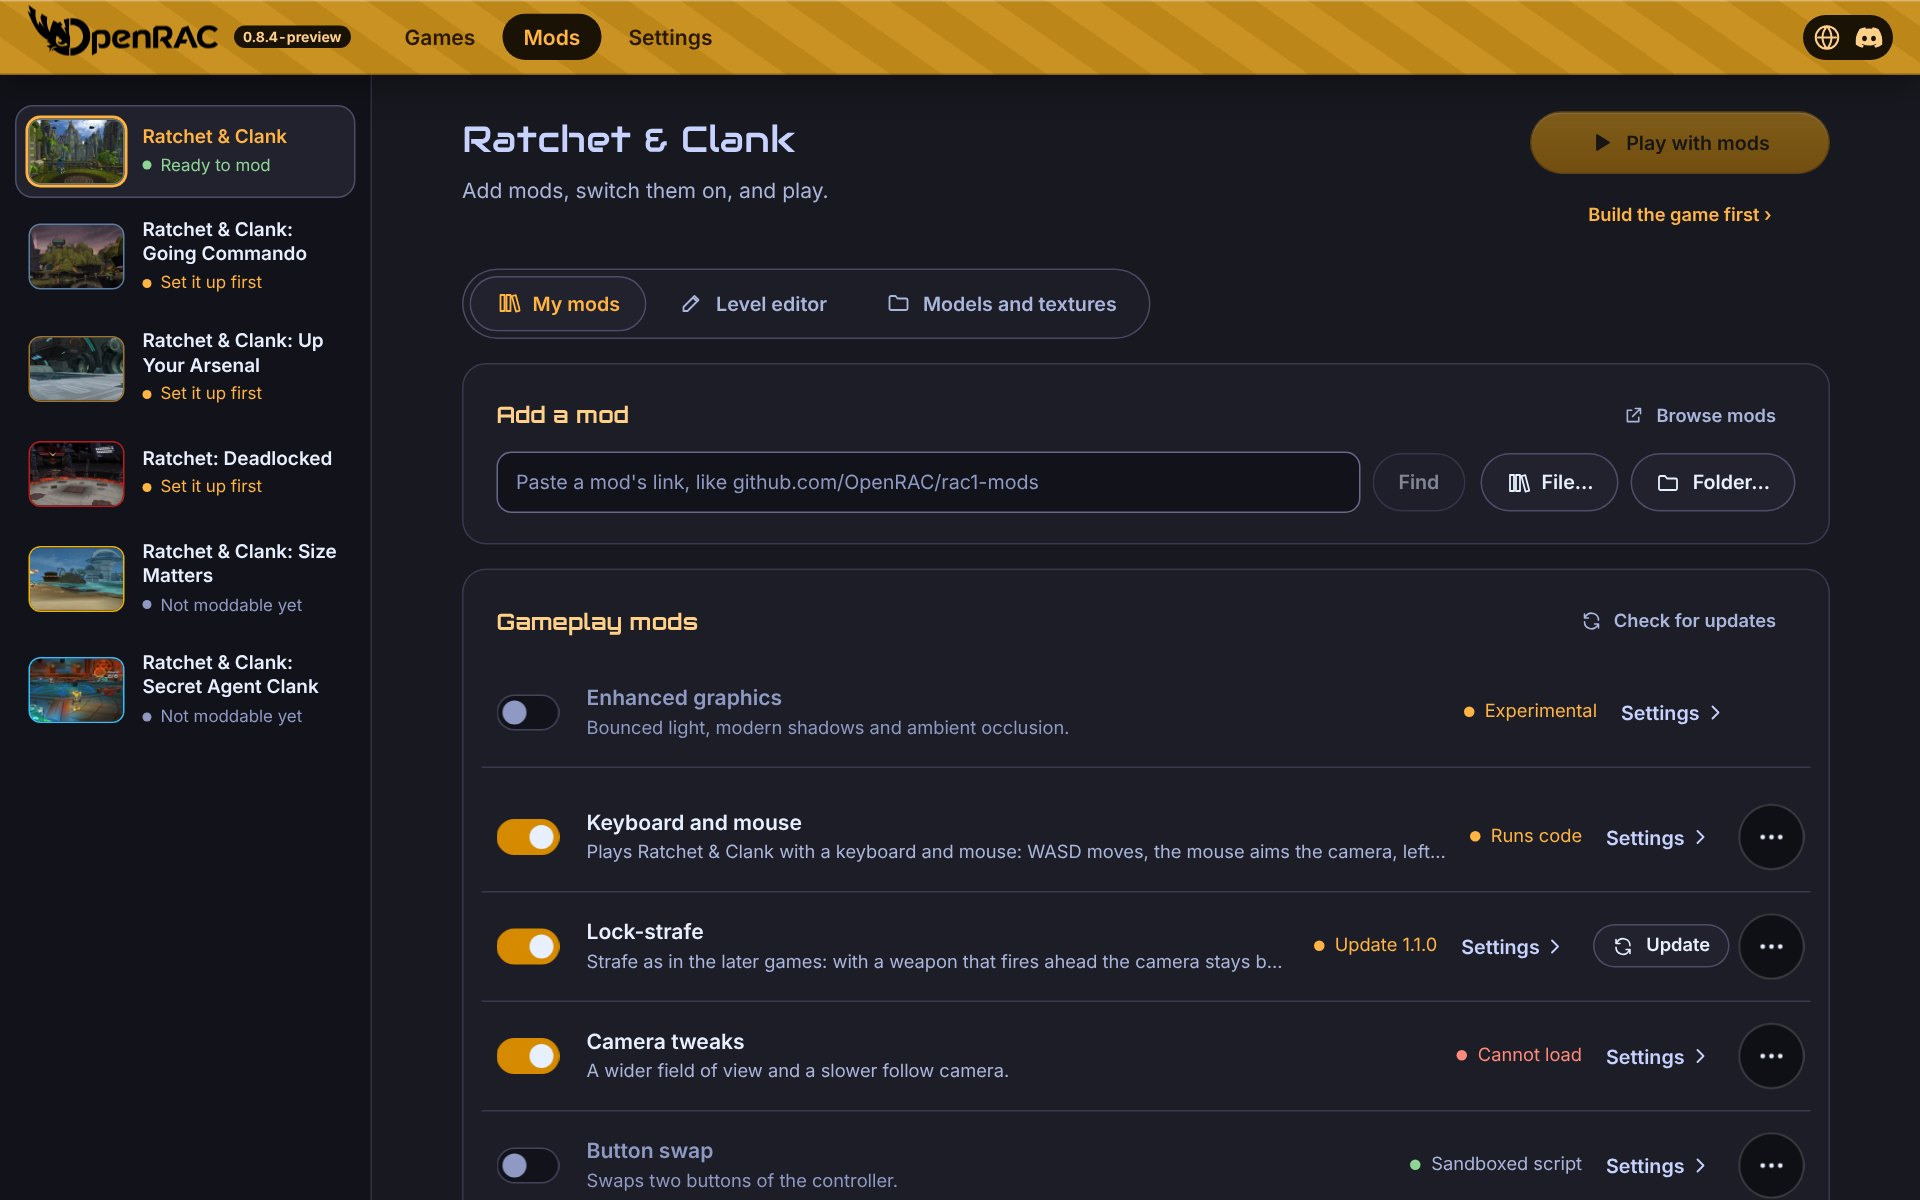
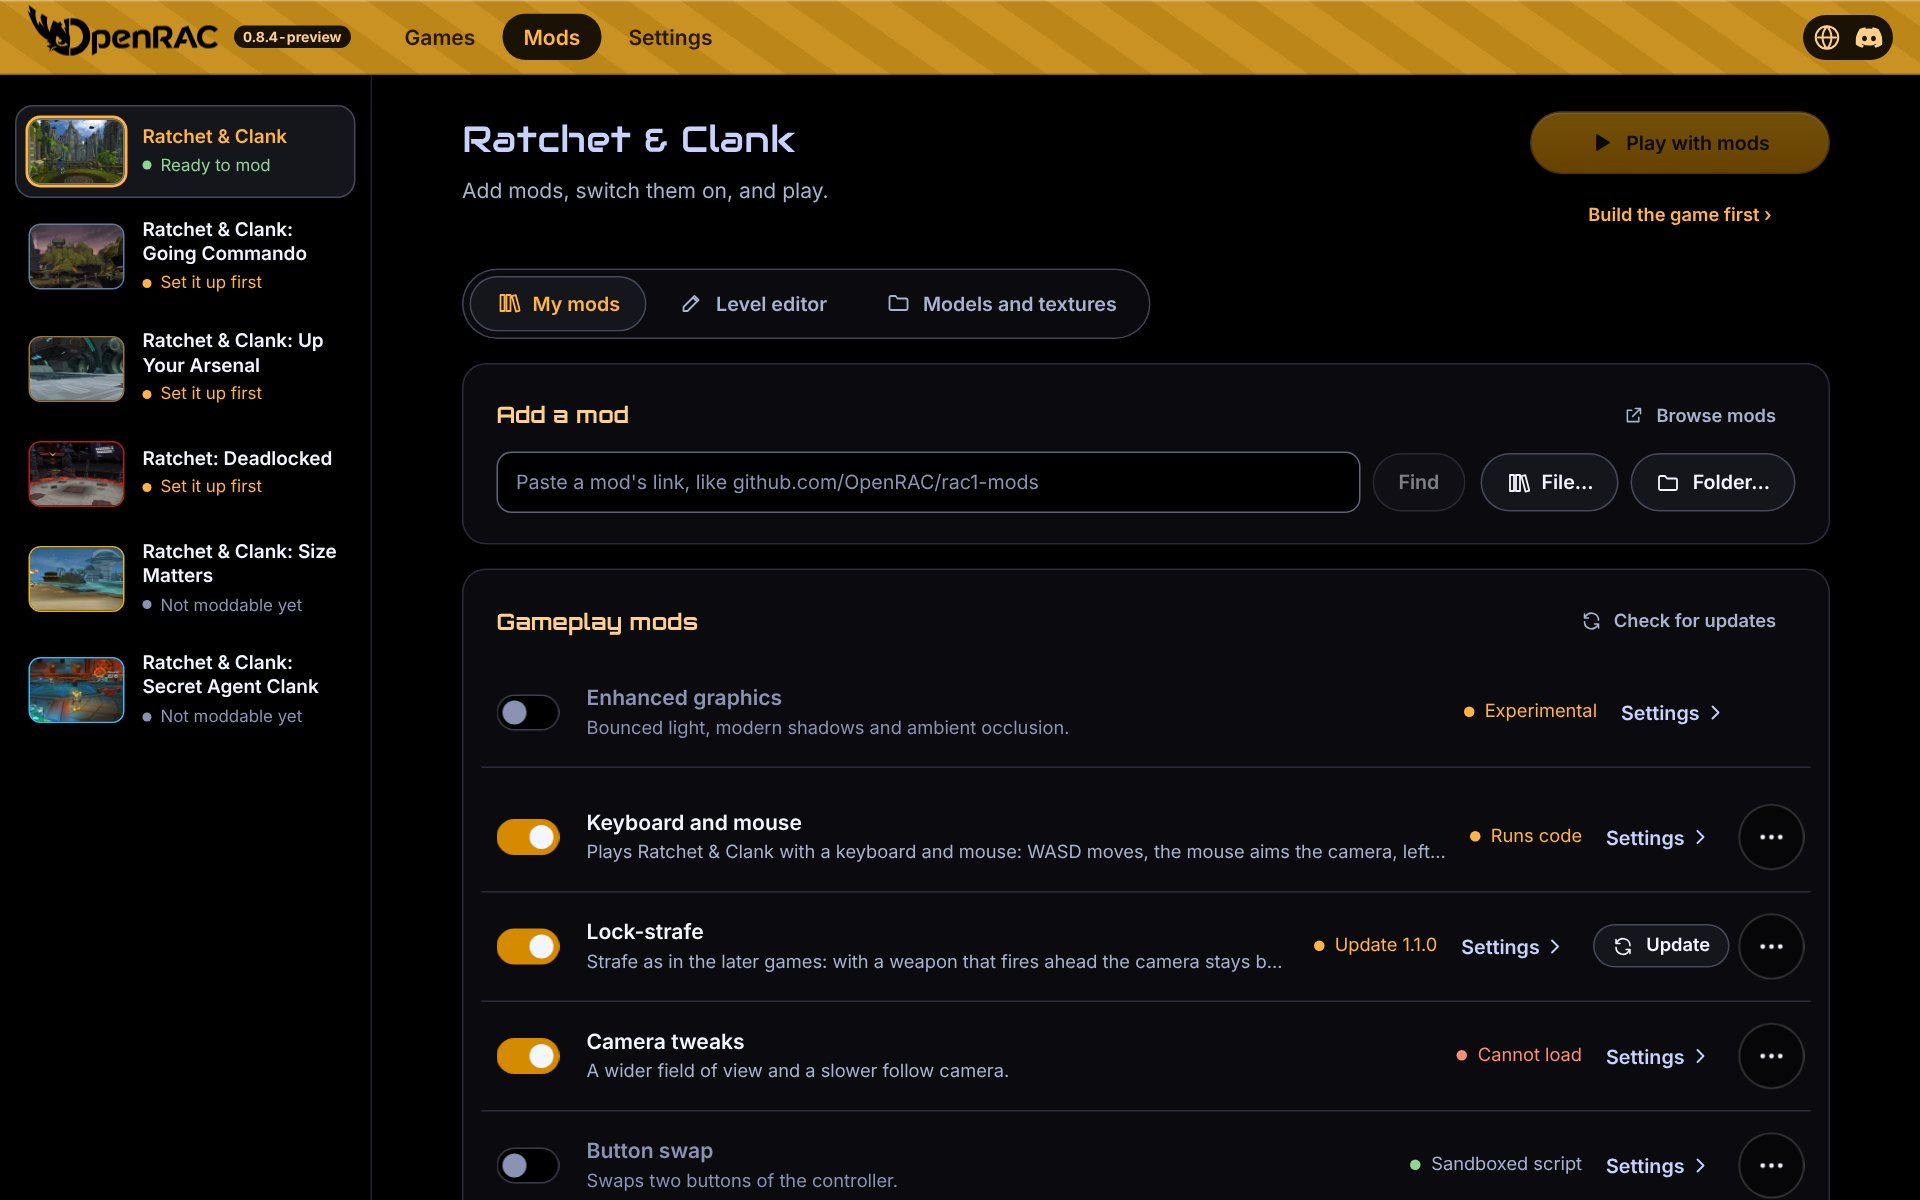
docs: README progress as wide as the page, with each project
The progress table takes the README's width and names the
decompilation project of each game between the game and its badge,
linked to its repository (the NTSC decomp only by that name). The
screenshots are retaken on the OLED black theme.

Verified: the openrac tool tests pass, tables is stable, and the table
was checked rendered.

diff --git a/tools/openrac.py b/tools/openrac.py
@@ -325,23 +325,36 @@ def short_title(game: dict, name: str) -> str:
 
 
 def progress_box(versions) -> str:
-    """The README's compact progress: a small table, in line with the text, one row per version with a ByteMatch
-    project, its name and a live bytematch.dev badge of the code it has matched, in the header
-    bar's gold. VERSIONS is games.versions()."""
+    """The README's compact progress: a table the page's width, one row per version with a
+    ByteMatch project: its name, the decompilation project it comes from, and a live
+    bytematch.dev badge of the code it has matched, in the header bar's gold. VERSIONS is
+    games.versions()."""
     rows = []
     for game, name, v in versions:
         slug = v.get("bytematch")
         if not slug or v["serial"] in PROGRESS_HIDDEN:
             continue
         title = short_title(game, name)
+        source = v.get("source") or {}
+        # The NTSC decomp is named only so, never by its author's handle or address (AGENTS.md).
+        if game["id"] == "rac1" and name == "ntsc":
+            project = "the NTSC decomp"
+        elif source.get("repo"):
+            project = f'<a href="{source["repo"]}">{source["name"]}</a>'
+        else:
+            project = "–"
         query = urlencode({"mode": "shield", "label": "", "measure": "matched_code_percent",
                            "version": v["serial"], "color": "c99222", "style": "flat-square"})
         badge = (f'<a href="https://bytematch.dev/{slug}/{v["serial"]}">'
                  f'<img src="https://bytematch.dev/{slug}.svg?{query.replace("&", "&amp;")}" '
                  f'alt="{title}: code decompiled"></a>')
-        rows.append(f'  <tr><td>{title.replace("&", "&amp;")}</td><td align="right">{badge}</td></tr>')
+        rows.append(f'  <tr><td>{title.replace("&", "&amp;")}</td><td>{project}</td>'
+                    f'<td align="right">{badge}</td></tr>')
+    # GitHub sizes a table to its content, whatever its own width says: the columns' widths make
+    # it as wide as the README's column.
     return ('<table>\n'
-            '  <tr><th align="left">Game</th><th align="right">Code decompiled</th></tr>\n'
+            '  <tr><th align="left" width="260">Game</th><th align="left" width="270">Project</th>'
+            '<th align="right" width="190">Code decompiled</th></tr>\n'
             + "\n".join(rows) + "\n</table>\n")
 
 

diff --git a/tools/test_openrac.py b/tools/test_openrac.py
@@ -176,13 +176,15 @@ class ProgressTests(unittest.TestCase):
         rac6 = {"id": "rac6", "title": "Ratchet & Clank: Secret Agent Clank", "versions": {"ntsc": {}}}
         box = openrac.progress_box([
             (rac1, "pal", {"serial": "SCES_509.16", "bytematch": "OpenRAC/rac1-decomp"}),
-            (rac2, "ntsc", {"serial": "SCUS_972.68", "bytematch": "OpenRAC/rac2-decomp"}),
+            (rac2, "ntsc", {"serial": "SCUS_972.68", "bytematch": "OpenRAC/rac2-decomp",
+                            "source": {"name": "rac2-decomp", "repo": "https://github.com/OpenRAC/rac2-gc-decomp"}}),
             (rac2, "ntsc", {"serial": "SCUS_000.00"}),
             (rac6, "ntsc", {"serial": "SCUS_976.23", "bytematch": "OpenRAC/rac-sac-decomp"}),
         ])
         self.assertIn("<td>Ratchet &amp; Clank (PAL)</td>", box)
         self.assertIn("<td>Going Commando</td>", box)
         self.assertIn('href="https://bytematch.dev/OpenRAC/rac2-decomp/SCUS_972.68"', box)
+        self.assertIn('<td><a href="https://github.com/OpenRAC/rac2-gc-decomp">rac2-decomp</a></td>', box)
         self.assertIn("color=c99222", box)
         self.assertEqual(box.count("<img "), 2)
 

diff --git a/README.md b/README.md
@@ -57,13 +57,13 @@ How much of each game's code is decompiled so far. More on [openrac.dev](https:/
 <!-- badges:begin -->
 <!-- Generated by tools/openrac.py tables from games/*/game.json; do not edit. -->
 <table>
-  <tr><th align="left">Game</th><th align="right">Code decompiled</th></tr>
-  <tr><td>Ratchet &amp; Clank (PAL)</td><td align="right"><a href="https://bytematch.dev/OpenRAC/rac1-decomp/SCES_509.16"><img src="https://bytematch.dev/OpenRAC/rac1-decomp.svg?mode=shield&amp;label=&amp;measure=matched_code_percent&amp;version=SCES_509.16&amp;color=c99222&amp;style=flat-square" alt="Ratchet & Clank (PAL): code decompiled"></a></td></tr>
-  <tr><td>Ratchet &amp; Clank (NTSC)</td><td align="right"><a href="https://bytematch.dev/lombyte-project/Lombyte/SCUS_971.99"><img src="https://bytematch.dev/lombyte-project/Lombyte.svg?mode=shield&amp;label=&amp;measure=matched_code_percent&amp;version=SCUS_971.99&amp;color=c99222&amp;style=flat-square" alt="Ratchet & Clank (NTSC): code decompiled"></a></td></tr>
-  <tr><td>Going Commando</td><td align="right"><a href="https://bytematch.dev/OpenRAC/rac2-decomp/SCUS_972.68"><img src="https://bytematch.dev/OpenRAC/rac2-decomp.svg?mode=shield&amp;label=&amp;measure=matched_code_percent&amp;version=SCUS_972.68&amp;color=c99222&amp;style=flat-square" alt="Going Commando: code decompiled"></a></td></tr>
-  <tr><td>Up Your Arsenal</td><td align="right"><a href="https://bytematch.dev/OpenRAC/rac3-decomp/SCUS_973.53"><img src="https://bytematch.dev/OpenRAC/rac3-decomp.svg?mode=shield&amp;label=&amp;measure=matched_code_percent&amp;version=SCUS_973.53&amp;color=c99222&amp;style=flat-square" alt="Up Your Arsenal: code decompiled"></a></td></tr>
-  <tr><td>Deadlocked</td><td align="right"><a href="https://bytematch.dev/OpenRAC/rac4-decomp/SCUS_974.65"><img src="https://bytematch.dev/OpenRAC/rac4-decomp.svg?mode=shield&amp;label=&amp;measure=matched_code_percent&amp;version=SCUS_974.65&amp;color=c99222&amp;style=flat-square" alt="Deadlocked: code decompiled"></a></td></tr>
-  <tr><td>Size Matters</td><td align="right"><a href="https://bytematch.dev/OpenRAC/rac5-sm-decomp/SCUS_976.15"><img src="https://bytematch.dev/OpenRAC/rac5-sm-decomp.svg?mode=shield&amp;label=&amp;measure=matched_code_percent&amp;version=SCUS_976.15&amp;color=c99222&amp;style=flat-square" alt="Size Matters: code decompiled"></a></td></tr>
+  <tr><th align="left" width="260">Game</th><th align="left" width="270">Project</th><th align="right" width="190">Code decompiled</th></tr>
+  <tr><td>Ratchet &amp; Clank (PAL)</td><td><a href="https://github.com/OpenRAC/rac1-decomp">rac1-decomp</a></td><td align="right"><a href="https://bytematch.dev/OpenRAC/rac1-decomp/SCES_509.16"><img src="https://bytematch.dev/OpenRAC/rac1-decomp.svg?mode=shield&amp;label=&amp;measure=matched_code_percent&amp;version=SCES_509.16&amp;color=c99222&amp;style=flat-square" alt="Ratchet & Clank (PAL): code decompiled"></a></td></tr>
+  <tr><td>Ratchet &amp; Clank (NTSC)</td><td>the NTSC decomp</td><td align="right"><a href="https://bytematch.dev/lombyte-project/Lombyte/SCUS_971.99"><img src="https://bytematch.dev/lombyte-project/Lombyte.svg?mode=shield&amp;label=&amp;measure=matched_code_percent&amp;version=SCUS_971.99&amp;color=c99222&amp;style=flat-square" alt="Ratchet & Clank (NTSC): code decompiled"></a></td></tr>
+  <tr><td>Going Commando</td><td><a href="https://github.com/OpenRAC/rac2-gc-decomp">rac2-decomp</a></td><td align="right"><a href="https://bytematch.dev/OpenRAC/rac2-decomp/SCUS_972.68"><img src="https://bytematch.dev/OpenRAC/rac2-decomp.svg?mode=shield&amp;label=&amp;measure=matched_code_percent&amp;version=SCUS_972.68&amp;color=c99222&amp;style=flat-square" alt="Going Commando: code decompiled"></a></td></tr>
+  <tr><td>Up Your Arsenal</td><td><a href="https://github.com/OpenRAC/rac3-uya-decomp">rac3-uya-decomp</a></td><td align="right"><a href="https://bytematch.dev/OpenRAC/rac3-decomp/SCUS_973.53"><img src="https://bytematch.dev/OpenRAC/rac3-decomp.svg?mode=shield&amp;label=&amp;measure=matched_code_percent&amp;version=SCUS_973.53&amp;color=c99222&amp;style=flat-square" alt="Up Your Arsenal: code decompiled"></a></td></tr>
+  <tr><td>Deadlocked</td><td><a href="https://github.com/OpenRAC/rac-deadlocked-decomp">rac-deadlocked-decomp</a></td><td align="right"><a href="https://bytematch.dev/OpenRAC/rac4-decomp/SCUS_974.65"><img src="https://bytematch.dev/OpenRAC/rac4-decomp.svg?mode=shield&amp;label=&amp;measure=matched_code_percent&amp;version=SCUS_974.65&amp;color=c99222&amp;style=flat-square" alt="Deadlocked: code decompiled"></a></td></tr>
+  <tr><td>Size Matters</td><td><a href="https://github.com/OpenRAC/rac5-sm-decomp">rac5-sm-decomp</a></td><td align="right"><a href="https://bytematch.dev/OpenRAC/rac5-sm-decomp/SCUS_976.15"><img src="https://bytematch.dev/OpenRAC/rac5-sm-decomp.svg?mode=shield&amp;label=&amp;measure=matched_code_percent&amp;version=SCUS_976.15&amp;color=c99222&amp;style=flat-square" alt="Size Matters: code decompiled"></a></td></tr>
 </table>
 <!-- badges:end -->
 
